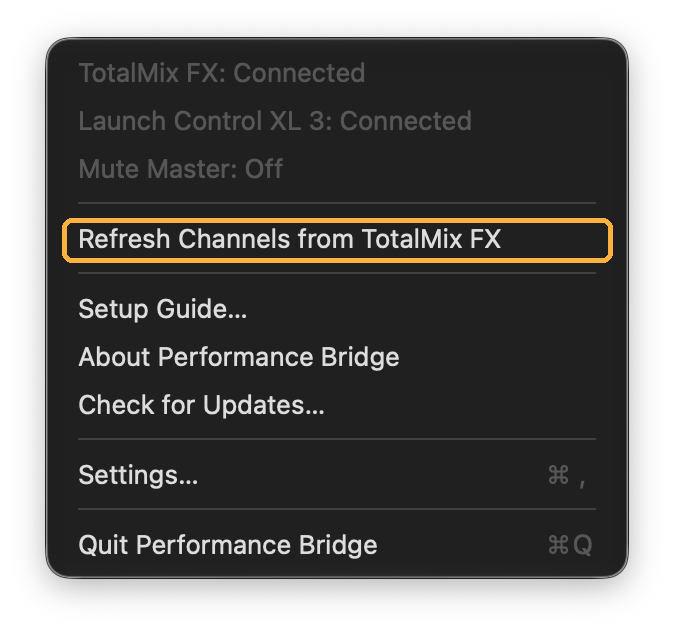
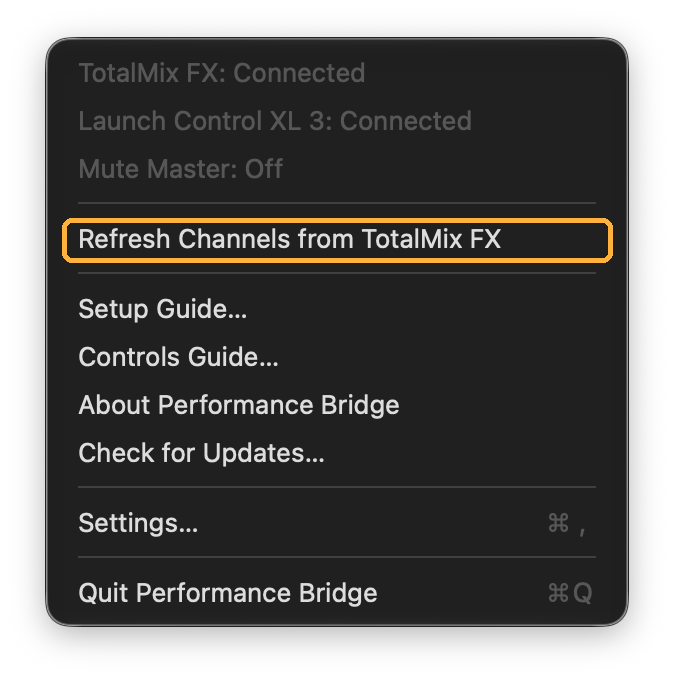
Channel Layout taller (720) so the fourth note fits; the menu screenshot shows Controls Guide…
Adam, 2026-11-02: the Sources tab's notes were cut off at the bottom.

Claude-Session: https://claude.ai/code/session_01X1yiLTvABhQrk9UV12EPAV

Changed region(s): [[0.0623, 0.0301, 0.9347, 0.8117], [0.0623, 0.8418, 0.9347, 0.932]]

diff --git a/App/PerformanceBridge/LayoutEditor.swift b/App/PerformanceBridge/LayoutEditor.swift
@@ -109,7 +109,7 @@ struct LayoutView: View {
             .fixedSize(horizontal: false, vertical: true)
         }
         .padding(20)
-        .frame(height: 620)
+        .frame(height: 720)
         .onAppear {
             // A visit here usually follows changes in TotalMix FX's own Channel Layout window,
             // which TotalMix FX doesn't announce over OSC: refresh the channels first.
